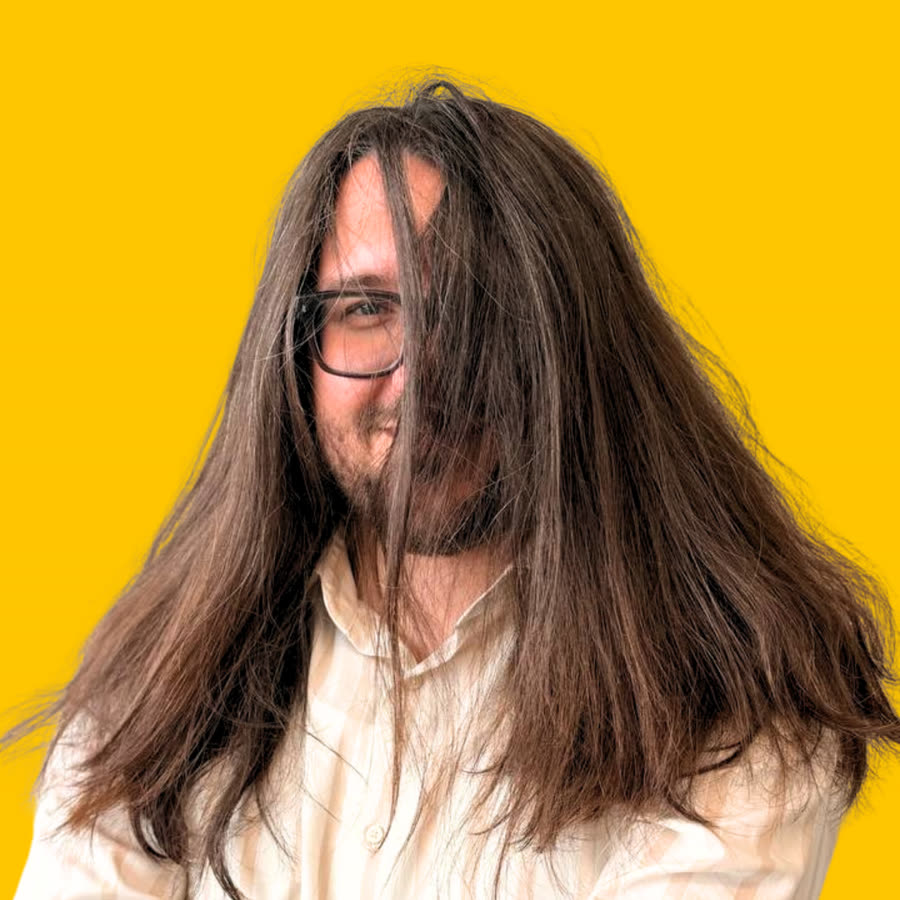
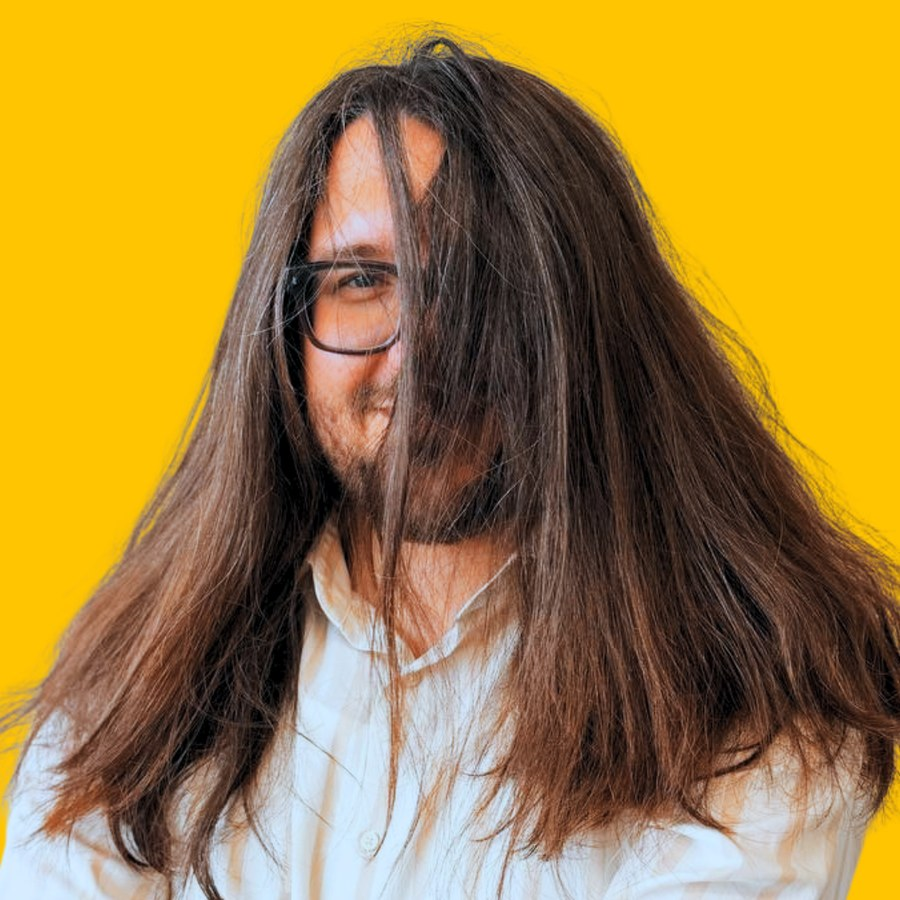
Refresh team photos, social links, and consent TTL
- Replace 12 team photos with new shoot composited on brand yellow
- Add LinkedIn/Instagram badges to footer and Organization sameAs
- Pin cookie card bottom-right on desktop; expire stored consent after 365d
- Wire GTM container ID GTM-MV7672T3 in PRIVACY-COOKIE-TODO checklist
- Bump privacy/cookie policies to v1.1 (8 May 2026) with canonical URLs
- Tweak Sabrina copy: "società" → "ufficio"

diff --git a/src/components/Footer.jsx b/src/components/Footer.jsx
@@ -1,3 +1,17 @@
+function SocialBadge({ href, label, children }) {
+  return (
+    <a
+      href={href}
+      target="_blank"
+      rel="noopener noreferrer"
+      aria-label={label}
+      className="inline-flex h-9 w-9 items-center justify-center rounded-full border border-brand-yellow/40 bg-white/[0.04] text-brand-yellow transition hover:bg-brand-yellow hover:text-brand-black"
+    >
+      {children}
+    </a>
+  )
+}
+
 export default function Footer() {
   return (
     <footer
@@ -14,6 +28,24 @@ export default function Footer() {
           <p className="mt-1 text-xs text-white/50">
             Sistema di crescita per le PMI
           </p>
+          <div className="mt-4 flex items-center justify-center gap-3 sm:justify-start">
+            <SocialBadge
+              href="https://www.linkedin.com/company/two-bee-growth-performance/"
+              label="LinkedIn TwoBee"
+            >
+              <svg viewBox="0 0 24 24" className="h-4 w-4" fill="currentColor">
+                <path d="M4.98 3.5C4.98 4.88 3.87 6 2.5 6S0 4.88 0 3.5 1.12 1 2.5 1s2.48 1.12 2.48 2.5zM.22 8h4.56v14H.22V8zm7.5 0h4.37v1.92h.06c.61-1.15 2.1-2.36 4.32-2.36 4.62 0 5.47 3.04 5.47 6.99V22h-4.56v-6.28c0-1.5-.03-3.43-2.09-3.43-2.09 0-2.41 1.63-2.41 3.32V22H7.72V8z" />
+              </svg>
+            </SocialBadge>
+            <SocialBadge
+              href="https://www.instagram.com/twobee.growth/"
+              label="Instagram TwoBee"
+            >
+              <svg viewBox="0 0 24 24" className="h-4 w-4" fill="currentColor">
+                <path d="M12 2.2c3.2 0 3.58.01 4.85.07 1.17.05 1.8.25 2.23.41.56.22.96.48 1.38.9.42.42.68.82.9 1.38.16.42.36 1.06.41 2.23.06 1.27.07 1.65.07 4.85s-.01 3.58-.07 4.85c-.05 1.17-.25 1.8-.41 2.23-.22.56-.48.96-.9 1.38-.42.42-.82.68-1.38.9-.42.16-1.06.36-2.23.41-1.27.06-1.65.07-4.85.07s-3.58-.01-4.85-.07c-1.17-.05-1.8-.25-2.23-.41a3.7 3.7 0 0 1-1.38-.9 3.7 3.7 0 0 1-.9-1.38c-.16-.42-.36-1.06-.41-2.23C2.21 15.58 2.2 15.2 2.2 12s.01-3.58.07-4.85c.05-1.17.25-1.8.41-2.23.22-.56.48-.96.9-1.38.42-.42.82-.68 1.38-.9.42-.16 1.06-.36 2.23-.41C8.42 2.21 8.8 2.2 12 2.2zm0 1.8c-3.15 0-3.5.01-4.74.07-.99.05-1.53.21-1.89.35-.47.18-.81.4-1.16.75-.36.36-.57.69-.75 1.16-.14.36-.3.9-.35 1.89C3.05 9.5 3 9.85 3 13s.01 3.5.07 4.74c.05.99.21 1.53.35 1.89.18.47.4.81.75 1.16.36.36.69.57 1.16.75.36.14.9.3 1.89.35 1.24.06 1.59.07 4.74.07s3.5-.01 4.74-.07c.99-.05 1.53-.21 1.89-.35.47-.18.81-.4 1.16-.75.36-.36.57-.69.75-1.16.14-.36.3-.9.35-1.89.06-1.24.07-1.59.07-4.74s-.01-3.5-.07-4.74c-.05-.99-.21-1.53-.35-1.89a3.13 3.13 0 0 0-.75-1.16 3.13 3.13 0 0 0-1.16-.75c-.36-.14-.9-.3-1.89-.35C15.5 4.01 15.15 4 12 4zm0 3.06A4.94 4.94 0 1 1 12 17a4.94 4.94 0 0 1 0-9.88zm0 1.8a3.14 3.14 0 1 0 0 6.28 3.14 3.14 0 0 0 0-6.28zm5.13-2.04a1.15 1.15 0 1 1 0 2.3 1.15 1.15 0 0 1 0-2.3z" />
+              </svg>
+            </SocialBadge>
+          </div>
         </div>
 
         <div className="text-xs leading-relaxed text-white/55">

diff --git a/public/privacy-policy.html b/public/privacy-policy.html
@@ -7,6 +7,7 @@
   <meta name="description" content="Informativa privacy ai sensi del Regolamento UE 2016/679 (GDPR) di Two Bee S.r.l." />
   <meta name="robots" content="noindex, follow" />
   <link rel="icon" type="image/svg+xml" href="/favicon.svg" />
+  <link rel="canonical" href="https://twobee.it/privacy-policy.html" />
   <meta name="theme-color" content="#0B0B0C" />
 
   <link rel="preconnect" href="https://fonts.googleapis.com" />
@@ -149,7 +150,7 @@
   <main class="wrap">
     <p class="lede">Informativa sul trattamento dei dati personali</p>
     <h1>Privacy Policy</h1>
-    <p class="meta">Ultimo aggiornamento: 2 maggio 2026 · Versione 1.0</p>
+    <p class="meta">Ultimo aggiornamento: 8 maggio 2026 · Versione 1.1</p>
 
     <p>
       La presente informativa è resa ai sensi dell'articolo 13 del Regolamento (UE) 2016/679
@@ -179,14 +180,20 @@
 
     <h3>2.1 Dati forniti volontariamente dall'utente</h3>
     <p>
-      Tramite il modulo di contatto presente sul Sito raccogliamo:
+      Tramite il modulo di contatto presente sul Sito raccogliamo i seguenti dati,
+      tutti contrassegnati con asterisco e di conferimento obbligatorio salvo dove
+      diversamente indicato:
     </p>
     <ul>
       <li>nome e cognome;</li>
+      <li>nome dell'azienda;</li>
       <li>indirizzo email;</li>
-      <li>numero di telefono (facoltativo);</li>
-      <li>nome dell'attività o azienda (facoltativo);</li>
-      <li>contenuto del messaggio o richiesta inviata;</li>
+      <li>numero di telefono;</li>
+      <li>contenuto del messaggio o richiesta inviata (facoltativo);</li>
+      <li>
+        consenso esplicito al trattamento dei dati per le finalità di riscontro
+        (checkbox obbligatorio prima dell'invio del modulo);
+      </li>
       <li>eventuali ulteriori informazioni che l'utente decida di condividere.</li>
     </ul>
 

diff --git a/index.html b/index.html
@@ -25,11 +25,15 @@
           var raw = localStorage.getItem('tb_consent_v1');
           if (raw) {
             var saved = JSON.parse(raw);
-            if (saved && saved.choices) {
+            var maxAge = 365 * 24 * 60 * 60 * 1000;
+            var fresh = saved && saved.timestamp && (Date.now() - saved.timestamp) < maxAge;
+            if (fresh && saved.choices) {
               defaults.analytics_storage = saved.choices.statistics ? 'granted' : 'denied';
               defaults.ad_storage = saved.choices.marketing ? 'granted' : 'denied';
               defaults.ad_user_data = saved.choices.marketing ? 'granted' : 'denied';
               defaults.ad_personalization = saved.choices.marketing ? 'granted' : 'denied';
+            } else if (!fresh) {
+              localStorage.removeItem('tb_consent_v1');
             }
           }
         } catch (e) {}
@@ -108,7 +112,11 @@
           "areaServed": {
             "@type": "Country",
             "name": "Italia"
-          }
+          },
+          "sameAs": [
+            "https://www.linkedin.com/company/two-bee-growth-performance/",
+            "https://www.instagram.com/twobee.growth/"
+          ]
         },
         {
           "@type": "WebSite",

diff --git a/src/components/CookieBanner.jsx b/src/components/CookieBanner.jsx
@@ -1,6 +1,7 @@
 import { useEffect, useState } from 'react'
 
 const STORAGE_KEY = 'tb_consent_v1'
+const MAX_AGE_MS = 365 * 24 * 60 * 60 * 1000
 
 const DEFAULT_CHOICES = { statistics: false, marketing: false }
 const ALL_GRANTED = { statistics: true, marketing: true }
@@ -30,6 +31,10 @@ function readSaved() {
     if (!raw) return null
     const parsed = JSON.parse(raw)
     if (!parsed || !parsed.choices) return null
+    if (!parsed.timestamp || Date.now() - parsed.timestamp > MAX_AGE_MS) {
+      localStorage.removeItem(STORAGE_KEY)
+      return null
+    }
     return parsed.choices
   } catch (e) {
     return null
@@ -85,7 +90,7 @@ export default function CookieBanner() {
 
   if (view === 'card') {
     return (
-      <div className="fixed bottom-4 left-4 right-4 z-[100] sm:right-auto sm:max-w-sm">
+      <div className="fixed bottom-4 left-4 right-4 z-[100] sm:left-auto sm:max-w-sm">
         <div className="rounded-2xl border border-brand-yellow/40 bg-brand-black/95 p-5 shadow-[0_30px_60px_-15px_rgba(0,0,0,0.6)] backdrop-blur-md">
           <div className="font-display text-base font-extrabold text-white">
             Cookie e privacy

diff --git a/public/cookie-policy.html b/public/cookie-policy.html
@@ -7,6 +7,7 @@
   <meta name="description" content="Informativa estesa sull'uso dei cookie ai sensi della normativa europea — Two Bee S.r.l." />
   <meta name="robots" content="noindex, follow" />
   <link rel="icon" type="image/svg+xml" href="/favicon.svg" />
+  <link rel="canonical" href="https://twobee.it/cookie-policy.html" />
   <meta name="theme-color" content="#0B0B0C" />
 
   <link rel="preconnect" href="https://fonts.googleapis.com" />
@@ -148,7 +149,7 @@
   <main class="wrap">
     <p class="lede">Informativa estesa sull'uso dei cookie</p>
     <h1>Cookie Policy</h1>
-    <p class="meta">Ultimo aggiornamento: 2 maggio 2026 · Versione 1.0</p>
+    <p class="meta">Ultimo aggiornamento: 8 maggio 2026 · Versione 1.1</p>
 
     <p>
       La presente Cookie Policy descrive l'uso dei cookie e di tecnologie simili sul sito

diff --git a/src/sections/Team.jsx b/src/sections/Team.jsx
@@ -32,7 +32,7 @@ const teamMembers = [
     id: 'sabrina',
     name: 'Sabrina Nastro',
     role: 'Marketing Specialist',
-    tag: "L'abbiamo strappata a Londra per riportare questo diamante in patria. Quando si infervora le parte l'accento british: in società non la capisce nessuno, ma tutti annuiamo intensamente perché le sue campagne convertono da paura.",
+    tag: "L'abbiamo strappata a Londra per riportare questo diamante in patria. Quando si infervora le parte l'accento british: in ufficio non la capisce nessuno, ma tutti annuiamo intensamente perché le sue campagne convertono da paura.",
     photoBw: '/team-sabrina-bw.jpg',
     photoColor: '/team-sabrina-color.jpg',
     initials: 'S',

diff --git a/PRIVACY-COOKIE-TODO.md b/PRIVACY-COOKIE-TODO.md
@@ -19,12 +19,18 @@ Workstream bloccato finché non arrivano le info qui sotto. Quando le abbiamo, s
 ### Decisioni stack di tracking (per cookie banner)
 - [x] **Storage finale**: VPS privato in Unione Europea (zero trasferimenti extra-UE → semplifica privacy policy, no SCC necessarie per il dato grezzo)
 - [x] **Klaviyo**: ATTIVO (per monitoring + email marketing) → servono `company_id` e `list_id`. Vedi `cookie-banner-regole.txt` PARTE B. NB: Klaviyo ha sede USA → la privacy policy DEVE menzionare il trasferimento extra-UE con base giuridica SCC anche se il VPS è in UE
-- [x] **Google stack**: ATTIVO (GTM + GA4) → segue le regole di `cookie-banner-regole.txt` PARTE A. Servono container ID `GTM-XXXXXXX` e Measurement ID `G-XXXXXXXXXX`
+- [x] **Google stack**: ATTIVO (GTM + GA4) → segue le regole di `cookie-banner-regole.txt` PARTE A. Container ID GTM ricevuto: **`GTM-MV7672T3`** (2026-05-04). Manca Measurement ID GA4 `G-XXXXXXXXXX`
 - [x] **EmailJS**: confermato — resta per la notifica interna (mail al titolare a ogni submit)
 - [ ] **Google Ads**: lo attiviamo? (sì/no — se sì serve conversion ID)
 - [ ] **Meta Pixel**: lo attiviamo? (sì/no — se sì serve pixel ID)
 - [ ] **LinkedIn Insight Tag**: lo attiviamo? (sì/no)
-- [ ] **IDs concreti da fornire** (rimandati a settimana del 2026-05-04): `GTM-XXXXXXX`, `G-XXXXXXXXXX`, Klaviyo `company_id`, Klaviyo `list_id`
+- [ ] **IDs ancora da fornire** (aggiornato 2026-05-04):
+  - [x] GTM container ID → `GTM-MV7672T3` ricevuto
+  - [ ] Secondo snippet GTM (`<noscript>` con iframe per `<body>`) → da chiedere a chi ha mandato il primo
+  - [ ] GA4 Measurement ID `G-XXXXXXXXXX`
+  - [ ] Google Ads Conversion ID `AW-XXXXXXXXX` (se Google Ads attivo — vedi sopra)
+  - [ ] Klaviyo `company_id`
+  - [ ] Klaviyo `list_id`
 
 ### Decisioni operative
 - [ ] Stile banner: stesso pattern Plus Vending (vanilla JS inline nel `<head>` + componente custom React) o componente React integrato col design TwoBee?
